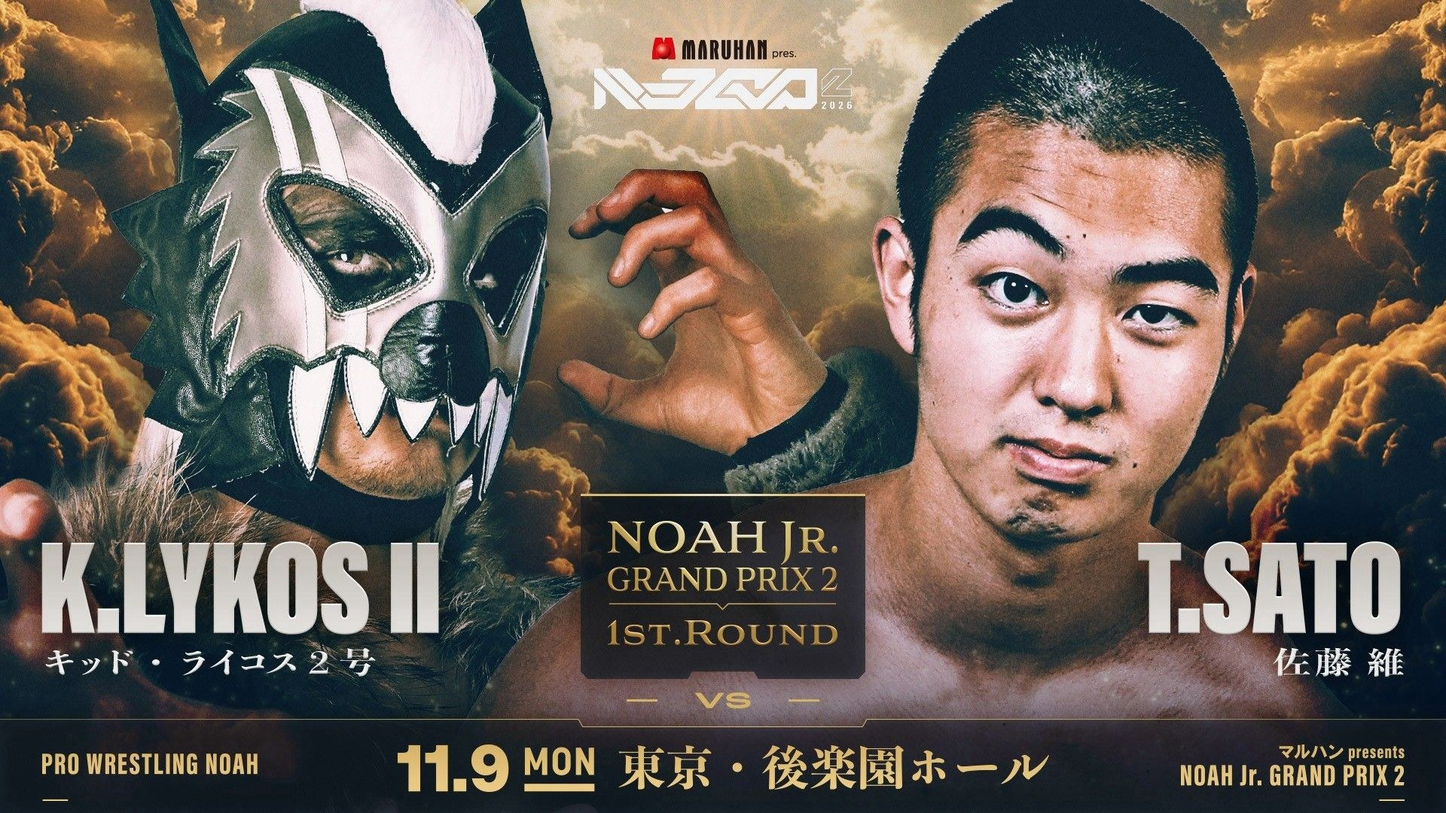
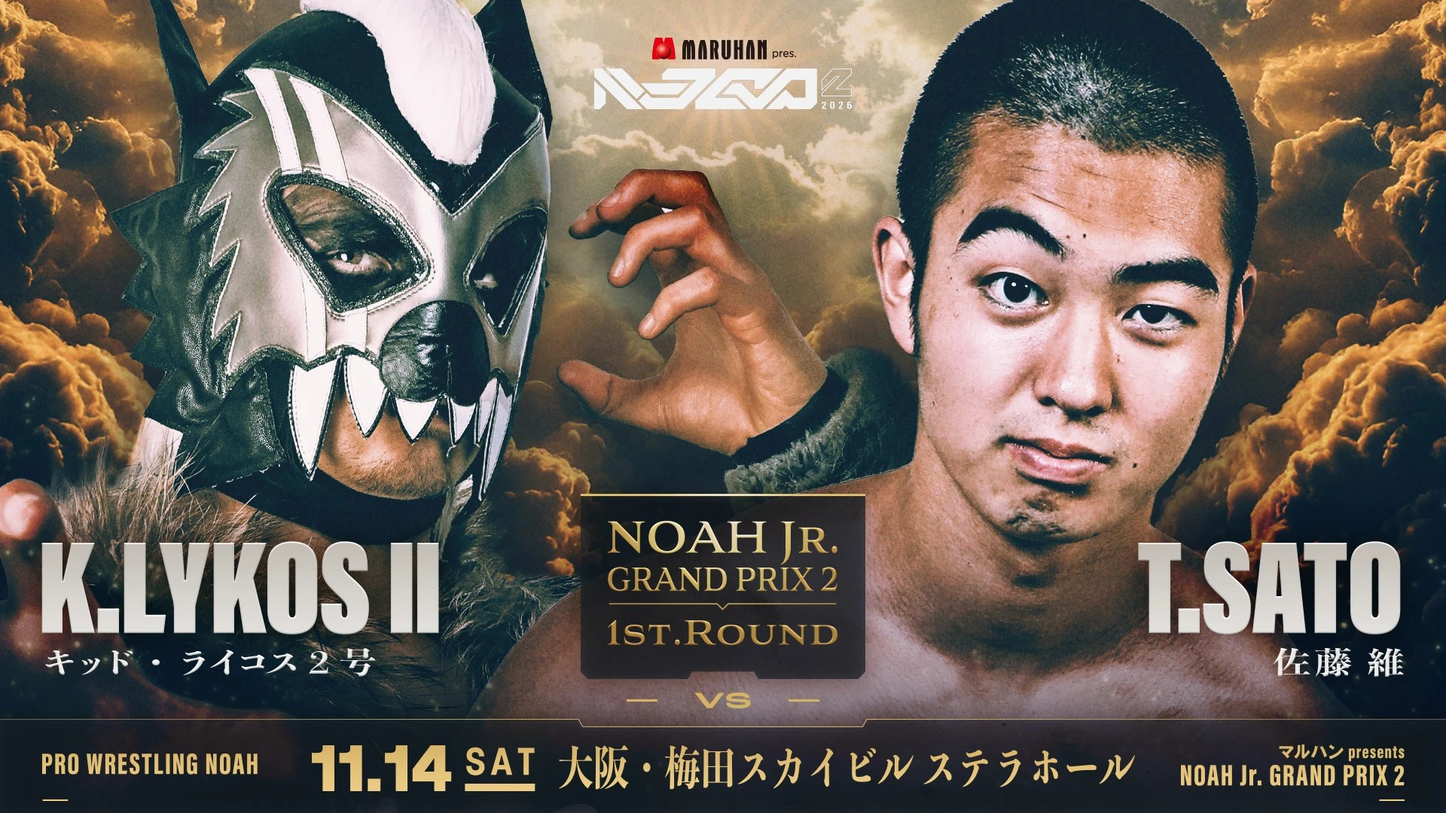
update njgp2 2026-11-06_1651

Changed region(s): [[0.2188, 0.9167, 0.7812, 0.9778], [0.9062, 0.9167, 0.9375, 0.9472]]

diff --git a/njgp2/index.html b/njgp2/index.html
@@ -112,6 +112,9 @@ ul{list-style:none}
 .vs img{width:100%;aspect-ratio:16/9;object-fit:cover}
 .vs figcaption{display:flex;align-items:center;gap:10px;padding:12px 2px;font-size:15px;font-weight:800}
 .vs figcaption b{font-size:18px}
+.vs figcaption{flex-wrap:wrap}
+.m__note{display:block;flex-basis:100%;font-size:12px;font-weight:700;color:#fff;margin-top:-4px;line-height:1.5}
+.sc__cards .m__note{margin-top:2px;font-size:11px;color:inherit;opacity:.85}
 .vs figcaption i,.sc__cards i{font-family:var(--ff-en);font-style:normal;font-size:.8em;opacity:.7;margin:0 4px}
 
 /* schedule */
@@ -375,7 +378,6 @@ ul{list-style:none}
           <p class="r1__day"><span class="en">11.9</span><small>MON</small>東京・後楽園ホール</p>
           <div class="r1__grid">
           <figure class="vs"><img src="img/vs_fujimura_bushi_960.jpg" srcset="img/vs_fujimura_bushi_960.jpg 960w, img/vs_fujimura_bushi.jpg 1920w" sizes="(max-width:900px) 100vw, 540px" alt="カイ・フジムラ vs BUSHI" width="1920" height="1080" loading="lazy"><figcaption><b>①</b>カイ・フジムラ<i>vs</i>BUSHI</figcaption></figure>
-          <figure class="vs"><img src="img/vs_lykos2_sato_960.jpg" srcset="img/vs_lykos2_sato_960.jpg 960w, img/vs_lykos2_sato.jpg 1920w" sizes="(max-width:900px) 100vw, 540px" alt="キッド・ライコス2号 vs 佐藤維" width="1920" height="1080" loading="lazy"><figcaption><b>②</b>キッド・ライコス2号<i>vs</i>佐藤維</figcaption></figure>
           <figure class="vs"><img src="img/vs_kondo_yohey_960.jpg" srcset="img/vs_kondo_yohey_960.jpg 960w, img/vs_kondo_yohey.jpg 1920w" sizes="(max-width:900px) 100vw, 540px" alt="近藤修司 vs YO-HEY" width="1920" height="1080" loading="lazy"><figcaption><b>③</b>近藤修司<i>vs</i>YO-HEY</figcaption></figure>
           <figure class="vs"><img src="img/vs_akeem_lykos1_960.jpg" srcset="img/vs_akeem_lykos1_960.jpg 960w, img/vs_akeem_lykos1.jpg 1920w" sizes="(max-width:900px) 100vw, 540px" alt="シドニー・アキーム vs キッド・ライコス1号" width="1920" height="1080" loading="lazy"><figcaption><b>④</b>シドニー・アキーム<i>vs</i>キッド・ライコス1号</figcaption></figure>
           </div>
@@ -383,6 +385,7 @@ ul{list-style:none}
         <div class="r1">
           <p class="r1__day"><span class="en">11.14</span><small>SAT</small>大阪・梅田スカイビル ステラホール</p>
           <div class="r1__grid">
+          <figure class="vs"><img src="img/vs_lykos2_sato_960.jpg" srcset="img/vs_lykos2_sato_960.jpg 960w, img/vs_lykos2_sato.jpg 1920w" sizes="(max-width:900px) 100vw, 540px" alt="キッド・ライコス2号 vs 佐藤維" width="1920" height="1080" loading="lazy"><figcaption><b>②</b>キッド・ライコス2号<i>vs</i>佐藤維<small class="m__note">※佐藤維選手の欠場に伴い、11.9後楽園大会から変更</small></figcaption></figure>
           <figure class="vs"><img src="img/vs_namiki_alejandro_960.jpg" srcset="img/vs_namiki_alejandro_960.jpg 960w, img/vs_namiki_alejandro.jpg 1920w" sizes="(max-width:900px) 100vw, 540px" alt="並木宏也 vs アレハンドロ" width="1920" height="1080" loading="lazy"><figcaption><b>⑤</b>並木宏也<i>vs</i>アレハンドロ</figcaption></figure>
           <figure class="vs"><img src="img/vs_odashima_masaoka_960.jpg" srcset="img/vs_odashima_masaoka_960.jpg 960w, img/vs_odashima_masaoka.jpg 1920w" sizes="(max-width:900px) 100vw, 540px" alt="小田嶋大樹 vs 政岡純" width="1920" height="1080" loading="lazy"><figcaption><b>⑥</b>小田嶋大樹<i>vs</i>政岡純</figcaption></figure>
           </div>
@@ -406,7 +409,7 @@ ul{list-style:none}
           <p class="sc__date en">11.9<small>MON</small></p>
           <p class="sc__venue">東京・後楽園ホール</p>
           <p class="sc__time">開場 <b class="en">17:30</b>　開始 <b class="en">18:30</b></p>
-          <details class="sc__cards"><summary>対戦カード</summary><ul><li><b>①</b><span>カイ・フジムラ <i>vs</i> BUSHI</span></li><li><b>②</b><span>キッド・ライコス2号 <i>vs</i> 佐藤維</span></li><li><b>③</b><span>近藤修司 <i>vs</i> YO-HEY</span></li><li><b>④</b><span>シドニー・アキーム <i>vs</i> キッド・ライコス1号</span></li></ul></details>
+          <details class="sc__cards"><summary>対戦カード</summary><ul><li><b>①</b><span>カイ・フジムラ <i>vs</i> BUSHI</span></li><li><b>③</b><span>近藤修司 <i>vs</i> YO-HEY</span></li><li><b>④</b><span>シドニー・アキーム <i>vs</i> キッド・ライコス1号</span></li></ul></details>
           <p class="sc__tour">〜LEGACY RISE 2026〜</p>
           <a class="sc__tv sc__tv--wu" href="https://www.wrestle-universe.com/ja/noah" target="_blank" rel="noopener"><small>放送・配信</small>WRESTLE UNIVERSEで生中継&nbsp;↗</a>
           <a class="sc__map" href="https://www.google.com/maps/search/?api=1&query=%E5%BE%8C%E6%A5%BD%E5%9C%92%E3%83%9B%E3%83%BC%E3%83%AB" target="_blank" rel="noopener">会場の地図 ↗</a>
@@ -416,7 +419,7 @@ ul{list-style:none}
           <p class="sc__date en">11.14<small>SAT</small></p>
           <p class="sc__venue">大阪・梅田スカイビル ステラホール</p>
           <p class="sc__time">開場 <b class="en">17:00</b>　開始 <b class="en">18:00</b></p>
-          <details class="sc__cards"><summary>対戦カード</summary><ul><li><b>⑤</b><span>並木宏也 <i>vs</i> アレハンドロ</span></li><li><b>⑥</b><span>小田嶋大樹 <i>vs</i> 政岡純</span></li></ul></details>
+          <details class="sc__cards"><summary>対戦カード</summary><ul><li><b>②</b><span>キッド・ライコス2号 <i>vs</i> 佐藤維<small class="m__note">※佐藤維選手の欠場に伴い、11.9後楽園大会から変更</small></span></li><li><b>⑤</b><span>並木宏也 <i>vs</i> アレハンドロ</span></li><li><b>⑥</b><span>小田嶋大樹 <i>vs</i> 政岡純</span></li></ul></details>
           <p class="sc__tour">〜LETHAL ODYSSEY TOUR 2026〜</p>
           <a class="sc__tv sc__tv--wu" href="https://www.wrestle-universe.com/ja/noah" target="_blank" rel="noopener"><small>放送・配信</small>WRESTLE UNIVERSEで生中継&nbsp;↗</a>
           <a class="sc__map" href="https://www.google.com/maps/search/?api=1&query=%E6%A2%85%E7%94%B0%E3%82%B9%E3%82%AB%E3%82%A4%E3%83%93%E3%83%AB%20%E3%82%B9%E3%83%86%E3%83%A9%E3%83%9B%E3%83%BC%E3%83%AB" target="_blank" rel="noopener">会場の地図 ↗</a>

diff --git a/src/njgp2/build.py b/src/njgp2/build.py
@@ -43,13 +43,16 @@ def players():
         <li class="pl">{a1}<img src="img/p_{p['id']}.webp" alt="{esc(p['name'])}" width="210" height="265" loading="lazy"><div class="pl__box">{nick}<span class="pl__name">{esc(p['name']).replace('・', '・<wbr>').replace('ブラック', 'ブラック<wbr>')}</span>{team}{more}</div>{a2}</li>'''
     return out
 
+def note(m):  # 日程変更などの注記(例: 欠場による振替)
+    return f'<small class="m__note">※{esc(m["note"])}</small>' if m.get('note') else ''
+
 def round1():
     out = ''
     for e in D['events']:
         cards = [m for m in e['matches'] if m.get('img')]
         if not cards: continue
         items = ''.join(f'''
-          <figure class="vs"><img src="img/{m['img']}_960.jpg" srcset="img/{m['img']}_960.jpg 960w, img/{m['img']}.jpg 1920w" sizes="(max-width:900px) 100vw, 540px" alt="{esc(P[m['a']]['name'])} vs {esc(P[m['b']]['name'])}" width="1920" height="1080" loading="lazy"><figcaption><b>{m['no']}</b>{esc(P[m['a']]['name'])}<i>vs</i>{esc(P[m['b']]['name'])}</figcaption></figure>''' for m in cards)
+          <figure class="vs"><img src="img/{m['img']}_960.jpg" srcset="img/{m['img']}_960.jpg 960w, img/{m['img']}.jpg 1920w" sizes="(max-width:900px) 100vw, 540px" alt="{esc(P[m['a']]['name'])} vs {esc(P[m['b']]['name'])}" width="1920" height="1080" loading="lazy"><figcaption><b>{m['no']}</b>{esc(P[m['a']]['name'])}<i>vs</i>{esc(P[m['b']]['name'])}{note(m)}</figcaption></figure>''' for m in cards)
         out += f'''
         <div class="r1">
           <p class="r1__day"><span class="en">{esc(e['date'])}</span><small>{esc(e['dow'])}</small>{esc(e['venue'])}</p>
@@ -60,7 +63,7 @@ def round1():
 
 def match_line(m):
     if m.get('a'):
-        return f'<li><b>{m["no"]}</b><span>{esc(P[m["a"]]["name"])} <i>vs</i> {esc(P[m["b"]]["name"])}</span></li>'
+        return f'<li><b>{m["no"]}</b><span>{esc(P[m["a"]]["name"])} <i>vs</i> {esc(P[m["b"]]["name"])}{note(m)}</span></li>'
     return f'<li><b>{esc(m["no"])}</b><span>{esc(m["a_text"])}<i>vs</i>{esc(m["b_text"])}</span></li>'
 
 def schedule():
@@ -244,6 +247,9 @@ ul{{list-style:none}}
 .vs img{{width:100%;aspect-ratio:16/9;object-fit:cover}}
 .vs figcaption{{display:flex;align-items:center;gap:10px;padding:12px 2px;font-size:15px;font-weight:800}}
 .vs figcaption b{{font-size:18px}}
+.vs figcaption{{flex-wrap:wrap}}
+.m__note{{display:block;flex-basis:100%;font-size:12px;font-weight:700;color:#fff;margin-top:-4px;line-height:1.5}}
+.sc__cards .m__note{{margin-top:2px;font-size:11px;color:inherit;opacity:.85}}
 .vs figcaption i,.sc__cards i{{font-family:var(--ff-en);font-style:normal;font-size:.8em;opacity:.7;margin:0 4px}}
 
 /* schedule */
